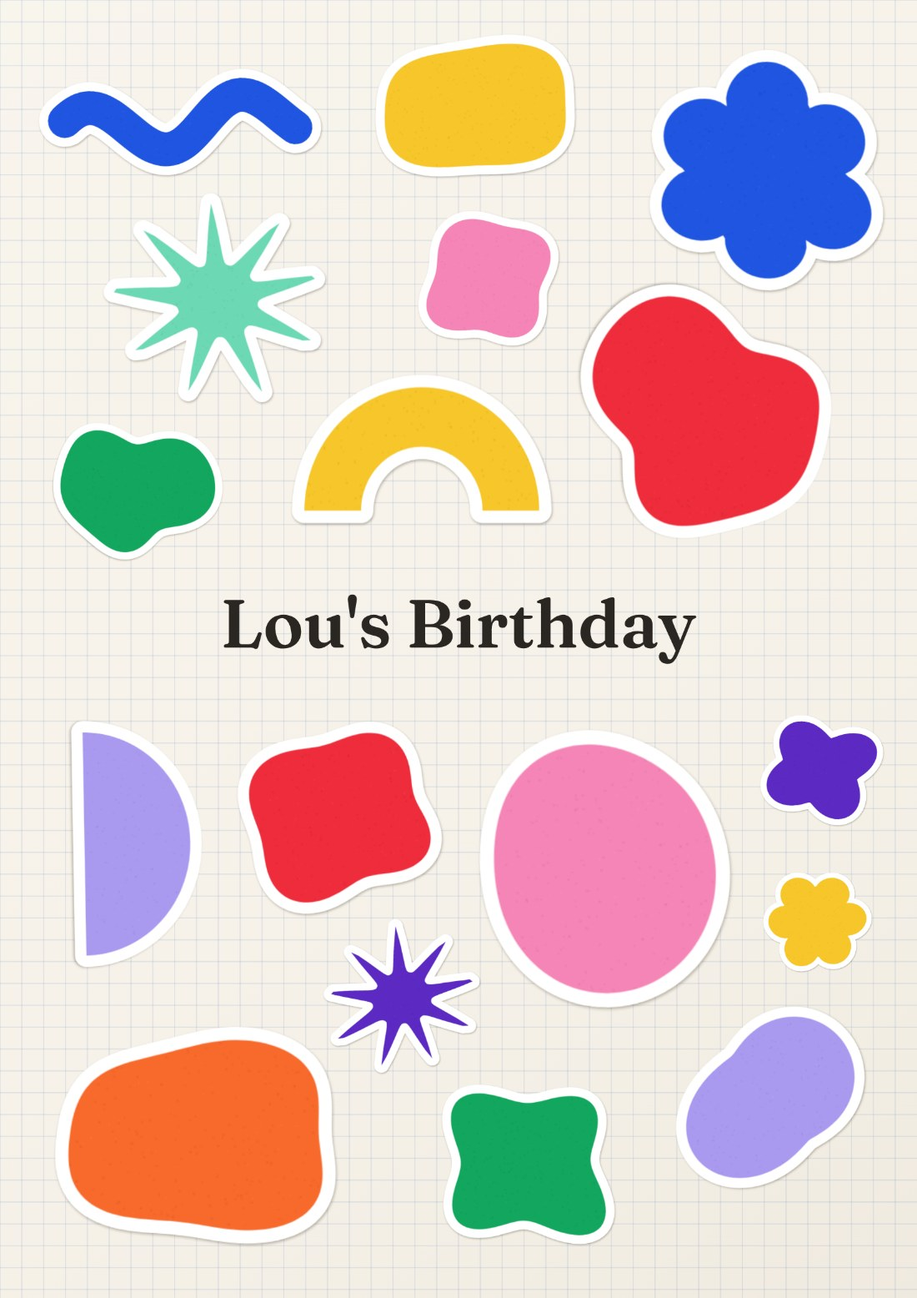
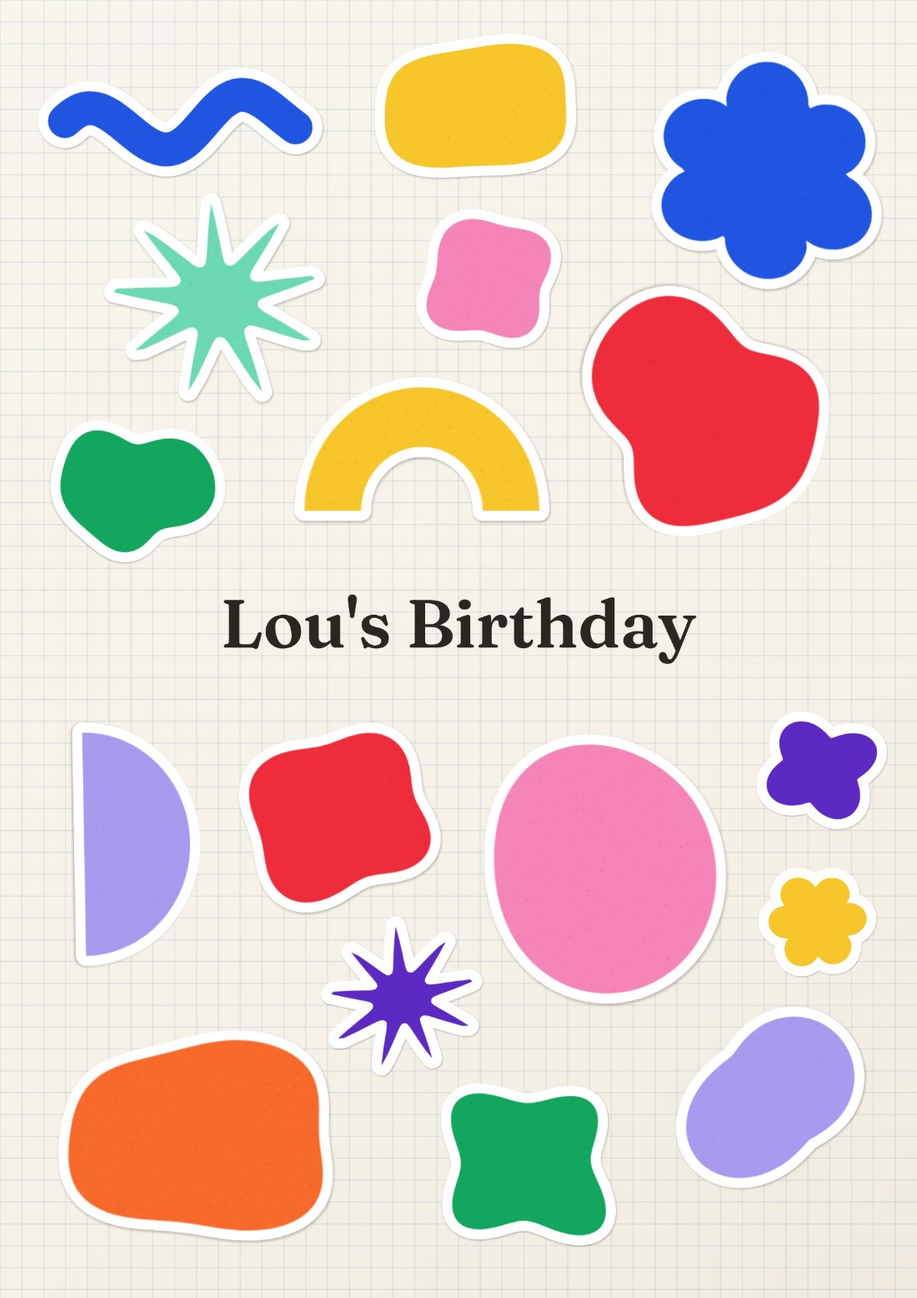
Bouton Paramètres (papier, motif, police, liseré), bouton Lien, fiche objet : prix et marque séparés, couleur, aides (i) ; liseré d'épaisseur constante, à l'extérieur de la découpe
Claude-Session: https://claude.ai/code/session_01QWV1uWe7wY7pNVpm84opJb

diff --git a/js/app.js b/js/app.js
@@ -239,6 +239,8 @@ function srcURL(src){if(src.startsWith('builtin:ph'))return phImage(src.slice(8)
 const STK_COLORS={rose:'#f585b6',bleu:'#1f55e0',orange:'#f8692c',jaune:'#f6c62a',vert:'#13a65e',violet:'#5c2ac2',lilas:'#a99af0',rouge:'#ee2c3c',menthe:'#6dd8b4'};
 const STK_SHAPES=['blob','fleur','eclat','etoile','arche','vague','trefle','galet','coussin','cacahuete','goutte','nuage','demi'];
 const STK_W=640,STK_H=480;
+const LIS=1.1,GAPS=.8; // épaisseur du liseré et espace entre stickers, en % de la largeur de la feuille (identique partout)
+const lisPx=(imgW,w)=>LIS*imgW/Math.max(4,w); // liseré en pixels de l'image pour un objet de largeur w (%)
 function stkPoly(shape,seed){const R=rng(seed),cx=STK_W/2,cy=STK_H/2,pts=[],N=160;
   const q1=R()*6,q2=R()*6,wob=t=>1+.035*Math.sin(2*t+q1)+.025*Math.sin(3*t+q2);
   const polar=f=>{for(let i=0;i<N;i++){const t=i/N*Math.PI*2,r=f(t)*wob(t);pts.push([cx+Math.cos(t)*r,cy+Math.sin(t)*r*.92])}return pts};
@@ -280,7 +282,7 @@ function randomStickers(n,seed){const R=rng(seed),sh=STK_SHAPES.slice().sort(()=
 const PH_NAMES=['Exemple : un livre','Exemple : un jeu','Exemple : un vêtement','Exemple : une sortie','Exemple : une surprise','Exemple : un doudou','Exemple : une gourmandise','Exemple : un atelier','Exemple : une plante'];
 /* taille visuelle d'un sticker (demi-largeur / demi-hauteur, en % de la largeur de feuille) */
 function stkBox(key,w){const P=phPoly(key);let x0=1e9,y0=1e9,x1=-1e9,y1=-1e9;P.forEach(([x,y])=>{x0=Math.min(x0,x);y0=Math.min(y0,y);x1=Math.max(x1,x);y1=Math.max(y1,y)});
-  const m=S.cfg.margin*2;return{rw:(x1-x0+m)/STK_W*w/2,rh:(y1-y0+m)/STK_W*w/2}}
+  const m=2*lisPx(STK_W,w);return{rw:(x1-x0+m)/STK_W*w/2,rh:(y1-y0+m)/STK_W*w/2}}
 /* ---------- remplissage « carré » sans chevauchement, façon planche de stickers ----------
    On rastérise chaque sticker (forme + liseré + petit espace), on le pose au premier endroit libre
    en balayant la zone, du plus grand au plus petit. On essaie d'abord en grand, et on réduit
@@ -291,11 +293,11 @@ function stickerCells(key,w,a,res,stroke){const P=phPoly(key);let x0=1e9,y0=1e9,
   g.beginPath();P.forEach((p,i)=>i?g.lineTo(p[0],p[1]):g.moveTo(p[0],p[1]));g.closePath();g.fill();if(stroke>0){g.lineJoin='round';g.lineWidth=stroke;g.stroke()}
   const d=g.getImageData(0,0,N,N).data,out=[];for(let y=0;y<N;y++)for(let x=0;x<N;x++)if(d[(y*N+x)*4+3]>60)out.push(x-(N>>1),y-(N>>1));return out}
 function packSquare(keys,widths,zone,A,seed,opt={}){
-  const res=opt.res||1.7,mg=opt.margin??S.cfg.margin,gap=opt.gap??14,GW=Math.round((zone.x1-zone.x0)*res),GH=Math.round((zone.y1-zone.y0)*A*res);
+  const res=opt.res||1.7,flat=opt.flat,GW=Math.round((zone.x1-zone.x0)*res),GH=Math.round((zone.y1-zone.y0)*A*res);
   const order=keys.map((k,i)=>({k,w:widths[i],i})).sort((a,b)=>b.w-a.w);
   const tryScale=(sc,sd)=>{const R=rng(sd),occ=new Uint8Array(GW*GH),out=[];
     for(const o of order){const w=o.w*sc,a=opt.rot===false?0:Math.round(R()*20-10);
-      const test=stickerCells(o.k,w,a,res,2*mg+gap),mark=stickerCells(o.k,w,a,res,2*mg);
+      const mg=flat?0:lisPx(STK_W,w),gap=GAPS*(opt.gapK||1)*STK_W/w,test=stickerCells(o.k,w,a,res,2*mg+gap),mark=stickerCells(o.k,w,a,res,2*mg);
       let mx=0,my=0;for(let i=0;i<test.length;i+=2){mx=Math.max(mx,Math.abs(test[i]));my=Math.max(my,Math.abs(test[i+1]))}
       if(2*mx>=GW||2*my>=GH)return null;
       const cands=[];for(let y=my;y<GH-my;y+=2)for(let x=mx;x<GW-mx;x+=2)cands.push([x,y,y+x*.35+R()*7]);cands.sort((p,q)=>p[2]-q[2]);
@@ -321,19 +323,19 @@ let DEBUG=false;
 async function drawPiece(id,el,force){
   const it=S.items.get(id);if(!it)return;
   const OUT=!it.ph&&!it.src.startsWith('builtin:ph')&&!!S.sheets.get(it.sheet)?.outline;
-  const key=[it.src,it.seed,JSON.stringify(S.cfg),DEBUG,OUT].join('|');if(!force&&el._key===key)return;el._key=key;
+  const key=[it.src,it.seed,JSON.stringify(S.cfg),DEBUG,OUT,(OUT||it.src.startsWith('builtin:ph'))?Math.round(it.w*4):0].join('|');if(!force&&el._key===key)return;el._key=key;
   let im;try{im=await loadImg(it.src)}catch(e){return}
   const W=im.naturalWidth,H=im.naturalHeight,P=itemPoly(it,im);
-  if(OUT){const r=outlineInto(el.querySelector('canvas'),im,P,!!it.alpha);el._num=r.num;el._scale=r.scale;placePiece(el,it);return}
-  if(it.src.startsWith('builtin:ph')){const r=stickerInto(el.querySelector('canvas'),im,P);el._num=r.num;el._scale=r.scale;placePiece(el,it);return}
+  if(it.src.startsWith('builtin:ph')){const r=stickerInto(el.querySelector('canvas'),im,P,false,it.w);el._num=r.num;el._scale=r.scale;placePiece(el,it);return}
   const M=getMask(it.src,im,P,!!it.alpha,S.cfg.margin);
   const V=cutPath(P,M,W,H,it.seed||1);
   let x0=1e9,y0=1e9,x1=-1e9,y1=-1e9;V.forEach(p=>{x0=Math.min(x0,p[0]);y0=Math.min(y0,p[1]);x1=Math.max(x1,p[0]);y1=Math.max(y1,p[1])});
-  const pad=Math.ceil(S.cfg.shadow*2.5+4);x0=Math.floor(x0);y0=Math.floor(y0);x1=Math.ceil(x1);y1=Math.ceil(y1);
+  const LM=OUT?lisPx(W,it.w):0,pad=Math.ceil(S.cfg.shadow*2.5+4+LM);x0=Math.floor(x0);y0=Math.floor(y0);x1=Math.ceil(x1);y1=Math.ceil(y1);
   const cw=x1-x0+pad*2,ch=y1-y0+pad*2,c=el.querySelector('canvas');c.width=cw;c.height=ch;const g=c.getContext('2d'),R=rng((it.seed||1)+7);
   const path=()=>{g.beginPath();V.forEach((p,i)=>{const X=p[0]-x0+pad,Y=p[1]-y0+pad;if(!i){g.moveTo(X,Y);return}
     const q=V[i-1],QX=q[0]-x0+pad,QY=q[1]-y0+pad,L=Math.hypot(X-QX,Y-QY)||1,b=(R()-.5)*2*S.cfg.bow;g.quadraticCurveTo((X+QX)/2+(Y-QY)/L*b,(Y+QY)/2-(X-QX)/L*b,X,Y)});g.closePath()};
-  if(S.cfg.shadow>0){g.save();g.shadowColor='rgba(40,25,10,.36)';g.shadowBlur=S.cfg.shadow;g.shadowOffsetX=S.cfg.shadow*.25;g.shadowOffsetY=S.cfg.shadow*.45;path();g.fillStyle='#fff';g.fill();g.restore()}
+  if(S.cfg.shadow>0||OUT){g.save();g.shadowColor='rgba(40,25,10,.36)';g.shadowBlur=Math.max(2,S.cfg.shadow);g.shadowOffsetX=S.cfg.shadow*.25;g.shadowOffsetY=S.cfg.shadow*.45;path();g.fillStyle='#fff';g.fill();
+    if(OUT){g.lineJoin='round';g.lineWidth=LM*2;g.strokeStyle='#fff';g.stroke()}g.restore()}
   g.save();path();g.clip();g.drawImage(im,pad-x0,pad-y0);g.restore();
   if(DEBUG){g.save();g.setLineDash([6,4]);g.strokeStyle='#e5533d';g.lineWidth=2;g.beginPath();P.forEach((p,i)=>i?g.lineTo(p[0]-x0+pad,p[1]-y0+pad):g.moveTo(p[0]-x0+pad,p[1]-y0+pad));g.closePath();g.stroke();g.restore()}
   // pastille numérotée : en haut à gauche de la découpe
@@ -487,12 +489,13 @@ function renderList(sid){
   const enc=encodeURIComponent;box.innerHTML='';
   its.forEach(([id,it])=>{const d=document.createElement('div');d.className='entry'+(isAct(id)?' act':'')+(openEntry===id?' open':'');d.dataset.id=id;
     const q=it.q||it.name||'';
-    d.innerHTML=`<div class="r1"><span class="n"></span><span class="nm"></span></div><div class="det"><div>${it.price?'<div class="pr"></div>':''}${it.note?'<div class="nt"></div>':''}<div class="lk"></div><div class="rsv"></div>${EDIT?`<button class="ed">${svg.edit} Modifier</button>`:''}</div></div>`;
+    d.innerHTML=`<div class="r1"><span class="n"></span><span class="nm"></span></div><div class="det"><div>${(it.price||it.brand)?'<div class="pr"></div>':''}${it.color?'<div class="co"><i></i><span></span></div>':''}${it.note?'<div class="nt"></div>':''}<div class="lk"></div><div class="rsv"></div>${EDIT?`<button class="ed">${svg.edit} Modifier</button>`:''}</div></div>`;
     d.querySelector('.n').textContent=it.n||'';d.querySelector('.nm').textContent=it.name||'Sans nom';
     if(S.res.has(id)){const t=document.createElement('span');t.className='rtag';t.textContent='Réservé';d.querySelector('.nm').appendChild(t)}
     if(it.ph){const t=document.createElement('span');t.className='rtag ph';t.textContent='exemple';d.querySelector('.nm').appendChild(t)}
     rsvUI(id,d.querySelector('.rsv'));
-    if(it.price)d.querySelector('.pr').textContent=it.price;if(it.note)d.querySelector('.nt').textContent=it.note;
+    if(it.price||it.brand)d.querySelector('.pr').textContent=[it.brand,it.price].filter(Boolean).join(' · ');
+    if(it.color){const co=d.querySelector('.co');co.querySelector('span').textContent=it.color.n;const dot=co.querySelector('i');if(it.color.h)dot.style.background=it.color.h;else dot.classList.add('any')}if(it.note)d.querySelector('.nt').textContent=it.note;
     const lk=d.querySelector('.lk');
     (it.links||[]).forEach(l=>{if(!/^https?:\/\//i.test(l.url||''))return;const a=document.createElement('a');a.href=l.url;a.target='_blank';a.rel='noopener';a.textContent=(l.label||hostOf(l.url))+' ↗';lk.appendChild(a)});
     if(q){[['Google Shopping','https://www.google.com/search?tbm=shop&q='],['Leboncoin','https://www.leboncoin.fr/recherche?text=']].forEach(([l,u])=>{const a=document.createElement('a');a.className='s';a.href=u+enc(q);a.target='_blank';a.rel='noopener';a.textContent=l;lk.appendChild(a)})}
@@ -601,7 +604,9 @@ function openForm(id,opt={}){
   document.getElementById('ftitle').textContent=it?'Modifier l’objet':'Ajouter un objet';
   document.getElementById('fsave').textContent=it?'Enregistrer':'Ajouter';
   document.getElementById('fdel').style.display=it?'':'none';document.getElementById('ferr').textContent='';
-  ['name','price','note','q'].forEach(k=>document.getElementById('f_'+k).value=it?(it[k]||''):'');
+  ['name','price','brand','note','q'].forEach(k=>document.getElementById('f_'+k).value=it?(it[k]||''):'');
+  if(it&&!it.brand&&it.price){const parts=it.price.split(/\s*·\s*/),pr=parts.filter(x=>/\d/.test(x)&&/€|eur|\$|£/i.test(x)),br=parts.filter(x=>!pr.includes(x));
+    document.getElementById('f_price').value=pr.join(' ');document.getElementById('f_brand').value=br.join(' · ')}setColor(it?.color||null);
   document.getElementById('f_links').innerHTML='';(it?.links?.length?it.links:[{}]).forEach(linkRow);
   dz.innerHTML='<div>Glisse ou colle une image ici<br>ou clique pour choisir<br><br><small>Un PNG détouré donne la plus jolie découpe</small></div>';
   if(it)loadImg(it.src).then(im=>{if(F&&F.id===id&&!F.file){dz.innerHTML='';const i=new Image();i.src=im.src;dz.appendChild(i)}}).catch(()=>{});
@@ -643,7 +648,7 @@ async function prepImage(file){
 form.addEventListener('submit',async e=>{
   e.preventDefault();if(!F)return;const err=document.getElementById('ferr');err.textContent='';
   const name=document.getElementById('f_name').value.trim();if(!name){err.textContent='Il faut un nom.';return}
-  const data={name,price:document.getElementById('f_price').value.trim(),note:document.getElementById('f_note').value.trim(),
+  const data={name,price:document.getElementById('f_price').value.trim(),brand:document.getElementById('f_brand').value.trim(),color:F.color||null,note:document.getElementById('f_note').value.trim(),
     q:document.getElementById('f_q').value.trim(),links:[...document.querySelectorAll('#f_links .l')].map(r=>({label:r.children[0].value.trim(),url:r.children[1].value.trim()})).filter(l=>l.url)};
   data.links.forEach(l=>{if(l.url&&!/^https?:\/\//i.test(l.url))l.url='https://'+l.url});
   if(!F.id&&!F.file){err.textContent='Ajoute une image.';return}
@@ -670,6 +675,7 @@ form.addEventListener('submit',async e=>{
    Dock & réglages
    ===================================================================== */
 document.getElementById('additem').onclick=()=>openForm(null,{sheet:activeSheet});
+document.getElementById('addlinkbtn').onclick=()=>{openForm(null,{sheet:activeSheet});setTimeout(()=>document.getElementById('f_url').focus(),80)};
 document.getElementById('selall').onclick=selectAll;
 /* Mélanger : chevauchement ≤ ~15 px, tout dans la feuille, tailles proches (±6 % en largeur ≈ ±12 % en surface) */
 function smartShuffle(sid){
@@ -726,24 +732,28 @@ document.getElementById('copy').onclick=async()=>{const txt=JSON.stringify(S.cfg
 /* ---------- papier / police / suppression depuis le dock ---------- */
 const PM=document.getElementById('papermenu'),FM=document.getElementById('fontmenu'),DM=document.getElementById('delmenu');
 const PAPERHTML=PAPERS.map(([k,l])=>`<button data-p="${k}"><span class="sw"><span class="paper p-${k}" style="position:absolute;inset:0;filter:none"></span><span class="ruling r-${k}" style="inset:0"></span></span>${l}</button>`).join('');
-PM.innerHTML=PAPERHTML+`<button data-outline type="button"><span class="tg"></span>Liseré blanc autour des objets</button><div class="deco"><label><span>Intensité du motif</span><output id="decoout"></output><input type="range" id="decor" min="0" max="100" step="1"></label></div>`;
+PM.innerHTML=PAPERHTML+`<div class="deco"><label><span>Intensité du motif</span><output id="decoout"></output><input type="range" id="decor" min="0" max="100" step="1"></label></div>`;
 const decor=document.getElementById('decor'),decoout=document.getElementById('decoout');let decoT;
 function syncDeco(){const v=(S.sheets.get(activeSheet)||{}).deco??45;decor.value=v;decoout.textContent=v+' %';decor.style.setProperty('--p',v+'%')}
 decor.addEventListener('input',()=>{const v=+decor.value;decoout.textContent=v+' %';decor.style.setProperty('--p',v+'%');
   const el=spreads.get(activeSheet);el&&el.querySelector('.ruling').style.setProperty('--deco',v/100);
   clearTimeout(decoT);decoT=setTimeout(()=>{if(activeSheet)store.setSheet(activeSheet,{deco:v})},350)});
 decor.addEventListener('pointerdown',e=>e.stopPropagation());
-FM.innerHTML=FONTS.map(([f])=>`<button data-f="${f}" style="font-family:'${f}'">${f}</button>`).join('');
+FM.innerHTML=FONTS.map(([f])=>`<button data-f="${f}" style="font-family:'${f}'">${f}</button>`).join('')+`<div class="mh" style="margin-top:6px">Objets</div><button data-outline type="button"><span class="tg"></span>Liseré blanc autour</button>`;
+const SETM=document.getElementById('setmenu');
+function syncSet(){const sh=S.sheets.get(activeSheet)||{};
+  PM.querySelectorAll('[data-p]').forEach(b=>b.classList.toggle('cur',b.dataset.p===(sh.paper||'uni')));
+  SETM.querySelector('[data-outline] .tg')?.classList.toggle('on',!!sh.outline);
+  FM.querySelectorAll('[data-f]').forEach(b=>b.classList.toggle('cur',b.dataset.f===(sh.font||'Caveat')));syncDeco()}
 function openMenu(m){const o=m.classList.contains('open');closeMenus();if(o)return;const sh=S.sheets.get(activeSheet)||{};
   PM.querySelectorAll('[data-p]').forEach(b=>b.classList.toggle('cur',b.dataset.p===(sh.paper||'uni')));
-  PM.querySelector('[data-outline] .tg')?.classList.toggle('on',!!sh.outline);
   FM.querySelectorAll('[data-f]').forEach(b=>b.classList.toggle('cur',b.dataset.f===(sh.font||'Caveat')));syncDeco();m.classList.add('open')}
-document.getElementById('paperbtn').onclick=e=>{e.stopPropagation();openMenu(PM)};
-document.getElementById('fontbtn').onclick=e=>{e.stopPropagation();openMenu(FM)};
+document.getElementById('setbtn').onclick=e=>{e.stopPropagation();openMenu(SETM)};
+SETM.addEventListener('pointerdown',e=>e.stopPropagation());
 document.getElementById('delbtn').onclick=e=>{e.stopPropagation();openMenu(DM)};
-PM.onclick=e=>{if(e.target.closest('[data-outline]')&&activeSheet){const v=!S.sheets.get(activeSheet)?.outline;store.setSheet(activeSheet,{outline:v});PM.querySelector('[data-outline] .tg').classList.toggle('on',v);return}
-  const b=e.target.closest('[data-p]');if(b&&activeSheet){store.setSheet(activeSheet,{paper:b.dataset.p});openMenu(PM);openMenu(PM)}};
-FM.onclick=e=>{const b=e.target.closest('[data-f]');if(b&&activeSheet){store.setSheet(activeSheet,{font:b.dataset.f});openMenu(FM);openMenu(FM)}};
+PM.onclick=e=>{const b=e.target.closest('[data-p]');if(b&&activeSheet){store.setSheet(activeSheet,{paper:b.dataset.p});syncSet()}};
+FM.onclick=e=>{if(e.target.closest('[data-outline]')&&activeSheet){store.setSheet(activeSheet,{outline:!S.sheets.get(activeSheet)?.outline});syncSet();return}
+  const b=e.target.closest('[data-f]');if(b&&activeSheet){store.setSheet(activeSheet,{font:b.dataset.f});syncSet()}};
 DM.querySelector('[data-no]').onclick=closeMenus;DM.querySelector('[data-yes]').onclick=()=>{closeMenus();if(!activeSheet)return;const ss=sortedSheets().map(s=>s[0]),i=ss.indexOf(activeSheet),next=ss[i+1]||ss[i-1]||null;store.delSheet(activeSheet);if(next)setActive(next)};
 
 /* ---------- partager ---------- */
@@ -919,13 +929,20 @@ async function fillFromUrl(u,forceImg){
   if(!d){st.className='';st.textContent='Ce site ne se laisse pas lire. Remplis à la main, ou colle une copie de l’image.';ensureLink(u,hostOf(u));return}
   const set=(id,v)=>{const el=document.getElementById(id);if(v&&!el.value.trim())el.value=v};
   const title=(d.title||'').replace(/\s+/g,' ').slice(0,90);set('f_name',title);
-  const site=(d.site||hostOf(d.url||u)).replace(/^www\./,'');set('f_price',[site,d.price].filter(Boolean).join(' · '));
+  const site=(d.site||hostOf(d.url||u)).replace(/^www\./,'');set('f_price',d.price);set('f_brand',site);
   ensureLink(d.url||u,site);
   if(d.image&&(forceImg||!F.file)){st.textContent='Je récupère l’image…';const f=await fetchImage(d.image);if(F!==my)return;if(f)setPreview(f)}
   st.className='';st.textContent=F.file?'C’est rempli. Vérifie et ajuste si besoin.':'Rempli, mais pas d’image : ajoute-la à la main.'}
 function ensureLink(url,label){const rows=[...document.querySelectorAll('#f_links .l')];if(rows.some(r=>r.children[1].value.trim()===url))return;
   let r=rows.find(r=>!r.children[1].value.trim());if(!r){linkRow();r=[...document.querySelectorAll('#f_links .l')].pop()}
   r.children[0].value=r.children[0].value||label||'';r.children[1].value=url}
+const COLORS=[['Rouge','#e2393b'],['Rose','#f48fb1'],['Orange','#f57c2b'],['Jaune','#f6c62a'],['Vert','#2e9e5b'],['Bleu','#2f62d8'],['Violet','#7b4bc4'],['Marron','#8b5a3c'],['Gris','#9a9a9a'],['Noir','#222222'],['Blanc','#ffffff']];
+const FC=document.getElementById('f_colors'),FCO=document.getElementById('f_color_other');
+FC.innerHTML=COLORS.map(([n,h])=>`<button type="button" class="sw" data-n="${n}" data-h="${h}" title="${n}" style="--c:${h}"></button>`).join('')+'<span class="cname" id="f_cname"></span>';
+function setColor(c){if(F)F.color=c;FC.querySelectorAll('.sw').forEach(b=>b.classList.toggle('cur',!!c&&b.dataset.n===c.n));
+  const known=c&&COLORS.some(x=>x[0]===c.n);FCO.value=c&&!known?c.n:'';document.getElementById('f_cname').textContent=known?c.n:''}
+FC.onclick=e=>{const b=e.target.closest('.sw');if(!b)return;setColor(F?.color?.n===b.dataset.n?null:{n:b.dataset.n,h:b.dataset.h})};
+FCO.addEventListener('input',()=>{const v=FCO.value.trim();if(F)F.color=v?{n:v,h:null}:null;FC.querySelectorAll('.sw').forEach(b=>b.classList.remove('cur'));document.getElementById('f_cname').textContent=''});
 document.getElementById('f_fetch').onclick=()=>fillFromUrl(document.getElementById('f_url').value,true);
 document.getElementById('f_url').addEventListener('paste',e=>{const t=e.clipboardData?.getData('text/plain')||'';if(/^\s*https?:\/\/\S+\s*$/.test(t)){e.preventDefault();e.stopPropagation();fillFromUrl(t,true)}});
 document.getElementById('f_url').addEventListener('keydown',e=>{if(e.key==='Enter'){e.preventDefault();fillFromUrl(e.target.value,true)}});
@@ -979,26 +996,14 @@ document.getElementById('homeform').onsubmit=async e=>{e.preventDefault();const 
   if(error){m.className='err';m.textContent='Erreur : '+error.message}else m.textContent='C’est envoyé ! Ouvre le lien reçu à '+email+' (pense aux spams).'};
 HOME.querySelector('.hdemo').onclick=e=>{if(MODE==='cloud'){e.preventDefault();toast('L’exemple arrive bientôt')}};
 // stickers découpés (sans passer par les objets de la page)
-function stickerInto(c,im,P,flat){const m=flat?0:S.cfg.margin,pad=m+10;let x0=1e9,y0=1e9,x1=-1e9,y1=-1e9;P.forEach(p=>{x0=Math.min(x0,p[0]);y0=Math.min(y0,p[1]);x1=Math.max(x1,p[0]);y1=Math.max(y1,p[1])});
+function stickerInto(c,im,P,flat,w){const m=flat?0:lisPx(im.naturalWidth,w||40),pad=m+10;let x0=1e9,y0=1e9,x1=-1e9,y1=-1e9;P.forEach(p=>{x0=Math.min(x0,p[0]);y0=Math.min(y0,p[1]);x1=Math.max(x1,p[0]);y1=Math.max(y1,p[1])});
   const cw=Math.ceil(x1-x0)+pad*2,ch=Math.ceil(y1-y0)+pad*2;c.width=cw;c.height=ch;const g=c.getContext('2d');
   const path=()=>{g.beginPath();P.forEach((p,i)=>i?g.lineTo(p[0]-x0+pad,p[1]-y0+pad):g.moveTo(p[0]-x0+pad,p[1]-y0+pad));g.closePath()};
   if(!flat){g.save();g.shadowColor='rgba(40,25,10,.30)';g.shadowBlur=Math.max(3,S.cfg.shadow*1.3);g.shadowOffsetX=1;g.shadowOffsetY=2;g.lineJoin='round';g.lineWidth=m*2;g.strokeStyle='#fff';g.fillStyle='#fff';path();g.fill();g.stroke();g.restore()}
   g.drawImage(im,pad-x0,pad-y0);
   const tl=P.reduce((b,p)=>(p[0]+p[1]<b[0]+b[1]?p:b),P[0]);
   return{scale:cw/im.naturalWidth,num:{x:(tl[0]-x0+pad)/cw*100,y:(tl[1]-y0+pad)/ch*100}}}
-/* liseré blanc façon sticker autour d'un objet (option de la feuille) */
-function outlineInto(c,im,P,alpha){const m=Math.max(8,S.cfg.margin),pad=m+12;let x0=1e9,y0=1e9,x1=-1e9,y1=-1e9;P.forEach(p=>{x0=Math.min(x0,p[0]);y0=Math.min(y0,p[1]);x1=Math.max(x1,p[0]);y1=Math.max(y1,p[1])});
-  if(alpha){x0=Math.max(0,x0-4);y0=Math.max(0,y0-4);x1=Math.min(im.naturalWidth,x1+4);y1=Math.min(im.naturalHeight,y1+4)}
-  const cw=Math.ceil(x1-x0)+pad*2,ch=Math.ceil(y1-y0)+pad*2;c.width=cw;c.height=ch;const g=c.getContext('2d');
-  const shape=(h,dx,dy)=>{if(alpha){h.drawImage(im,pad-x0+dx,pad-y0+dy);return}h.beginPath();P.forEach((p,i)=>i?h.lineTo(p[0]-x0+pad+dx,p[1]-y0+pad+dy):h.moveTo(p[0]-x0+pad+dx,p[1]-y0+pad+dy));h.closePath();h.fill()};
-  const sil=document.createElement('canvas');sil.width=cw;sil.height=ch;const s=sil.getContext('2d');s.fillStyle='#000';
-  [1,.66,.33].forEach(f=>{for(let k=0;k<28;k++){const t=k/28*Math.PI*2;shape(s,Math.cos(t)*m*f,Math.sin(t)*m*f)}});shape(s,0,0);
-  s.globalCompositeOperation='source-in';s.fillStyle='#fff';s.fillRect(0,0,cw,ch);
-  g.save();g.shadowColor='rgba(40,25,10,.30)';g.shadowBlur=Math.max(3,S.cfg.shadow*1.3);g.shadowOffsetX=1;g.shadowOffsetY=2;g.drawImage(sil,0,0);g.restore();
-  g.save();if(!alpha){g.beginPath();P.forEach((p,i)=>i?g.lineTo(p[0]-x0+pad,p[1]-y0+pad):g.moveTo(p[0]-x0+pad,p[1]-y0+pad));g.closePath();g.clip()}g.drawImage(im,pad-x0,pad-y0);g.restore();
-  const tl=P.reduce((b,p)=>(p[0]+p[1]<b[0]+b[1]?p:b),P[0]);
-  return{scale:cw/im.naturalWidth,num:{x:(tl[0]-x0+pad)/cw*100,y:(tl[1]-y0+pad)/ch*100}}}
-async function drawSticker(c,key,flat){const im=await loadImg('builtin:'+key);return stickerInto(c,im,phPoly(key),flat).scale}
+async function drawSticker(c,key,flat,w){const im=await loadImg('builtin:'+key);return stickerInto(c,im,phPoly(key),flat,w).scale}
 /* ---------- feuilles d'exemple de l'accueil ----------
    Elles s'éditent comme de vraies listes : ouvrir ?edithome, puis « Modifier les exemples » (famille #accueil).
    L'accueil affiche une image de chaque feuille. Une fois validées, ces images sont figées dans img/home/. */
@@ -1008,12 +1013,12 @@ function defaultHomeLayout(){const L={sheets:[]};
   [{paper:'quad',n:24,sizes:[30,26,24,22,20,18,16],flat:false,seed:11},{paper:'lines',n:8,sizes:[58,50,44,38],flat:false,seed:23},
    {paper:'dots',n:16,sizes:[36,30,26,22,20],flat:true,seed:37},{paper:'kraft',n:11,sizes:[46,40,34,30,26],flat:false,seed:51}].forEach(e=>{
     const R=rng(e.seed),keys=randomStickers(e.n,e.seed*101),widths=keys.map((_,j)=>e.sizes[j%e.sizes.length]*(.85+R()*.3));
-    L.sheets.push({paper:e.paper,flat:e.flat,st:packSquare(keys,widths,{x0:7,x1:93,y0:9,y1:91},297/210,e.seed,{margin:e.flat?0:S.cfg.margin,gap:e.flat?16:12,res:1.4})
+    L.sheets.push({paper:e.paper,flat:e.flat,st:packSquare(keys,widths,{x0:7,x1:93,y0:9,y1:91},297/210,e.seed,{flat:e.flat,gapK:e.flat?1.3:1,res:1.4})
       .map(o=>({k:o.k,x:+o.x.toFixed(2),y:+o.y.toFixed(2),w:+o.w.toFixed(2),a:o.a,flat:e.flat}))})});
   return L}
 const HIMG_KEY='collage-home-images';
 function homeImages(){if(HEDIT){try{const a=JSON.parse(localStorage.getItem(HIMG_KEY));if(Array.isArray(a)&&a.length)return a}catch(e){}}return HOME_IMAGES}
-function renderStk(c){const d=c._d;drawSticker(c,d.k,d.flat).then(sc=>{c.style.left=d.x+'%';c.style.top=d.y+'%';c.style.width=(d.w*sc)+'%';c.style.transform=`translate(-50%,-50%) rotate(${d.a}deg)`}).catch(()=>{})}
+function renderStk(c){const d=c._d;drawSticker(c,d.k,d.flat,d.w).then(sc=>{c.style.left=d.x+'%';c.style.top=d.y+'%';c.style.width=(d.w*sc)+'%';c.style.transform=`translate(-50%,-50%) rotate(${d.a}deg)`}).catch(()=>{})}
 function placeSticker(parent,d){const c=document.createElement('canvas');c._d=d;parent.appendChild(c);renderStk(c);return c}
 function buildHome(){
   const st=HOME.querySelector('.hstk');st.innerHTML='';HOME.querySelectorAll('.hside').forEach(h=>h.innerHTML='');

diff --git a/index.html b/index.html
@@ -32,6 +32,9 @@
   <button id="additem" class="primary edit-only" data-tip="Ajouter un objet · ou colle une image (⌘V)">
     <svg viewBox="0 0 24 24" fill="none" stroke="currentColor" stroke-width="2" stroke-linecap="round"><path d="M12 5v14M5 12h14"/></svg><span>Objet</span>
   </button>
+  <button id="addlinkbtn" class="edit-only" data-tip="Ajouter depuis un lien produit (ou colle un lien sur la page : ⌘V)">
+    <svg viewBox="0 0 24 24" fill="none" stroke="currentColor" stroke-width="1.8" stroke-linecap="round"><path d="M10 14a4 4 0 0 0 5.7 0l3-3a4 4 0 0 0-5.7-5.7l-1 1M14 10a4 4 0 0 0-5.7 0l-3 3a4 4 0 0 0 5.7 5.7l1-1"/></svg><span>Lien</span>
+  </button>
   <div class="sep edit-only"></div>
   <button id="selall" class="edit-only" data-tip="Tout sélectionner · ⌘A">
     <svg viewBox="0 0 24 24" fill="none" stroke="currentColor" stroke-width="1.8" stroke-linecap="round" stroke-linejoin="round"><path d="M5 3h2M11 3h2M17 3a2 2 0 0 1 2 2M3 7v2M3 13v2M3 5a2 2 0 0 1 2-2M5 19a2 2 0 0 1-2-2M9 19h2M19 9v2"/><path d="M13 13l8 3-3.5 1.5L16 21z" fill="currentColor"/></svg>
@@ -41,10 +44,9 @@
     <svg viewBox="0 0 24 24" fill="none" stroke="currentColor" stroke-width="1.8" stroke-linecap="round" stroke-linejoin="round"><path d="M16 3h5v5M4 20 21 3M21 16v5h-5M15 15l6 6M4 4l5 5"/></svg>
   </button>
   <div class="sep edit-only"></div>
-  <div class="wrap-rel edit-only"><button id="paperbtn" data-tip="Papier de la feuille">
-    <svg viewBox="0 0 24 24" fill="none" stroke="currentColor" stroke-width="1.8" stroke-linecap="round"><rect x="5" y="3" width="14" height="18" rx="1.5"/><path d="M8 8h8M8 12h8M8 16h5"/></svg></button><div class="menu up" id="papermenu"></div></div>
-  <div class="wrap-rel edit-only"><button id="fontbtn" data-tip="Police du titre">
-    <svg viewBox="0 0 24 24" fill="none" stroke="currentColor" stroke-width="1.8" stroke-linecap="round" stroke-linejoin="round"><path d="M4 19 9.5 5h1L16 19M6.3 14h7.4M17 10.5c.7-.6 1.6-1 2.5-1 1.5 0 2.5.9 2.5 2.5V19M22 15.5c-.8-.6-1.7-.8-2.7-.8-1.5 0-2.8.8-2.8 2.2s1.1 2.1 2.5 2.1c1.3 0 2.4-.8 3-2"/></svg></button><div class="menu up fontmenu" id="fontmenu"></div></div>
+  <div class="wrap-rel edit-only"><button id="setbtn" data-tip="Paramètres de la feuille">
+    <svg viewBox="0 0 24 24" fill="none" stroke="currentColor" stroke-width="1.8" stroke-linecap="round" stroke-linejoin="round"><path d="M4 7h10M18 7h2M4 17h4M12 17h8"/><circle cx="16" cy="7" r="2.2"/><circle cx="10" cy="17" r="2.2"/></svg></button>
+    <div class="menu up setmenu" id="setmenu"><div class="setcol"><div class="mh">Papier</div><div id="papermenu"></div></div><div class="setcol"><div class="mh">Police du titre</div><div id="fontmenu"></div></div></div></div>
   <div class="wrap-rel edit-only"><button id="delbtn" data-tip="Supprimer la feuille">
     <svg viewBox="0 0 24 24" fill="none" stroke="currentColor" stroke-width="1.8" stroke-linecap="round"><path d="M4 7h16M10 11v6M14 11v6M6 7l1 13h10l1-13M9 7V4h6v3"/></svg></button>
     <div class="menu up" id="delmenu" style="min-width:240px"><div style="padding:8px 10px 4px">Supprimer cette feuille et tous ses objets ?</div><div class="row" style="margin:8px 6px 6px"><button class="btn" data-no>Annuler</button><button class="btn dark" data-yes>Supprimer</button></div></div></div>
@@ -82,13 +84,14 @@
       <input type="file" id="file" accept="image/*" hidden>
     </div>
     <div class="fields">
-      <label>Lien du produit<span class="urlrow"><input id="f_url" placeholder="Colle le lien de la page du produit" inputmode="url"><button type="button" class="btn" id="f_fetch">Remplir</button></span><small id="f_urlst"></small></label>
+      <div class="urlbox"><label><span class="lab">Remplir depuis un lien <span class="info" tabindex="0">i<span class="tip">Colle l’adresse de la page du produit (Amazon, Fnac, une petite boutique…) : le nom, la marque, le prix et l’image se remplissent tout seuls. Tu peux tout corriger ensuite. Certains sites bloquent la lecture : dans ce cas, remplis à la main.</span></span></span><span class="urlrow"><input id="f_url" placeholder="https://… la page du produit" inputmode="url"><button type="button" class="btn dark" id="f_fetch">Remplir</button></span><small id="f_urlst"></small></label></div>
       <label>Nom<input id="f_name" required placeholder="Nom de l’objet"></label>
-      <label>Prix, magasin, référence<input id="f_price" placeholder="Prix · magasin"></label>
-      <label>Petite note<textarea id="f_note" rows="2" placeholder="Taille, couleur, une précision…"></textarea></label>
-      <div class="links"><div style="font-weight:500;font-size:12px;color:#55504a;margin-bottom:4px">Liens</div><div id="f_links"></div>
+      <div class="row2"><label>Prix<input id="f_price" placeholder="29,99 €" inputmode="decimal"></label><label>Marque<input id="f_brand" placeholder="Marque ou magasin"></label></div>
+      <div class="colors"><div class="lab">Couleur <span class="info" tabindex="0">i<span class="tip">Si l’objet existe en plusieurs couleurs, choisis celle que tu préfères. Elle s’affiche à côté du nom pour tes proches. Clique à nouveau pour enlever.</span></span></div><div id="f_colors"></div><input id="f_color_other" placeholder="Autre couleur : tape son nom (ex. vert sapin)"></div>
+      <label>Petite note<textarea id="f_note" rows="2" placeholder="Taille, âge, version, une précision…"></textarea></label>
+      <div class="links"><div class="lab">Où l’acheter <span class="info" tabindex="0">i<span class="tip">Les boutiques où on trouve l’objet. Tes proches verront un bouton par lien, qui ouvre directement la page.</span></span></div><div id="f_links"></div>
         <button type="button" class="addlink" id="addlink">+ Ajouter un lien</button></div>
-      <label>Recherche pré-remplie<input id="f_q" placeholder="Par défaut : le nom"></label>
+      <label><span class="lab">Recherche pré-remplie <span class="info" tabindex="0">i<span class="tip">Tes proches verront deux boutons, « Google Shopping » et « Leboncoin », qui lancent directement une recherche avec ces mots (pour comparer les prix ou trouver d’occasion). Par défaut, c’est le nom de l’objet. Mets des mots plus précis si besoin, ex. « Lego 43292 ».</span></span></span><input id="f_q" placeholder="Par défaut : le nom"></label>
     </div>
     <div class="actions"><span class="err" id="ferr"></span><button type="button" class="btn danger" id="fdel" style="flex:none">Supprimer</button><span class="sp"></span>
       <button type="button" class="btn" id="fcancel" style="flex:none">Annuler</button><button type="submit" class="btn dark" id="fsave" style="flex:none">Ajouter</button></div>

diff --git a/css/app.css b/css/app.css
@@ -404,3 +404,33 @@
   .hside .ex img{position:absolute;inset:0;width:100%;height:100%;display:block;filter:url(#deckle) drop-shadow(0 1px 1px rgba(60,40,20,.22)) drop-shadow(0 12px 22px rgba(60,40,20,.16))}
   #hbar.ed{top:68px;bottom:auto;left:auto;right:16px;transform:none;max-width:280px;align-items:stretch;text-align:left}
   #hbar.ed div{justify-content:flex-start}
+
+  /* ---------- paramètres de la feuille ---------- */
+  .menu.setmenu{display:none;grid-template-columns:230px 200px;gap:4px;padding:6px;min-width:0}
+  .menu.setmenu.open{display:grid}
+  .setmenu .setcol{min-width:0}
+  .setmenu #papermenu button,.setmenu #fontmenu button{width:100%}
+  .setmenu .deco{margin-top:2px}
+  .setmenu #fontmenu button{font-size:16px;padding:6px 10px}
+  .setmenu #fontmenu button[data-outline]{font:13px Inter}
+
+  /* ---------- fiche objet ---------- */
+  .urlbox{background:#fbf3ef;border:1px solid rgba(229,83,61,.25);border-radius:12px;padding:10px 10px 8px}
+  .urlbox label{color:#7a3a2c!important}
+  .row2{display:grid;grid-template-columns:1fr 1.3fr;gap:8px}
+  .lab{font-weight:500;font-size:12px;color:#55504a;display:inline-flex;align-items:center;gap:6px;margin-bottom:4px}
+  .colors{display:flex;flex-direction:column}
+  #f_colors{display:flex;flex-wrap:wrap;gap:6px;align-items:center;margin-bottom:6px}
+  #f_colors .sw{width:24px;height:24px;border-radius:50%;border:0;background:var(--c);cursor:pointer;box-shadow:inset 0 0 0 1px rgba(0,0,0,.14);transition:transform .15s;padding:0}
+  #f_colors .sw:hover{transform:scale(1.12)}
+  #f_colors .sw.cur{box-shadow:inset 0 0 0 1px rgba(0,0,0,.14),0 0 0 2px #fff,0 0 0 4px var(--ink)}
+  #f_colors .cname{font-size:12px;color:var(--muted);margin-left:4px}
+  #f_color_other{font-size:12.5px!important;padding:6px 10px!important}
+  .info{position:relative;display:inline-grid;place-items:center;width:15px;height:15px;border-radius:50%;background:rgba(0,0,0,.08);color:#55504a;font:700 10px/1 Georgia,serif;font-style:italic;cursor:help;flex:none;outline:none}
+  .info:hover,.info:focus{background:var(--ink);color:#fff}
+  .info .tip{position:absolute;left:50%;bottom:calc(100% + 8px);transform:translateX(-50%);width:250px;background:var(--ink);color:#fff;font:400 12px/1.45 Inter;font-style:normal;text-align:left;padding:9px 11px;border-radius:10px;box-shadow:0 8px 24px rgba(0,0,0,.2);opacity:0;pointer-events:none;transition:opacity .15s;z-index:5}
+  .info:hover .tip,.info:focus .tip{opacity:1}
+  .fields label .info{margin-left:4px}
+  .entry .co{display:flex;align-items:center;gap:6px;font-size:11.5px;color:var(--muted);margin-top:3px}
+  .entry .co i{width:10px;height:10px;border-radius:50%;box-shadow:inset 0 0 0 1px rgba(0,0,0,.15)}
+  .entry .co i.any{background:conic-gradient(#e2393b,#f6c62a,#2e9e5b,#2f62d8,#7b4bc4,#e2393b)}
